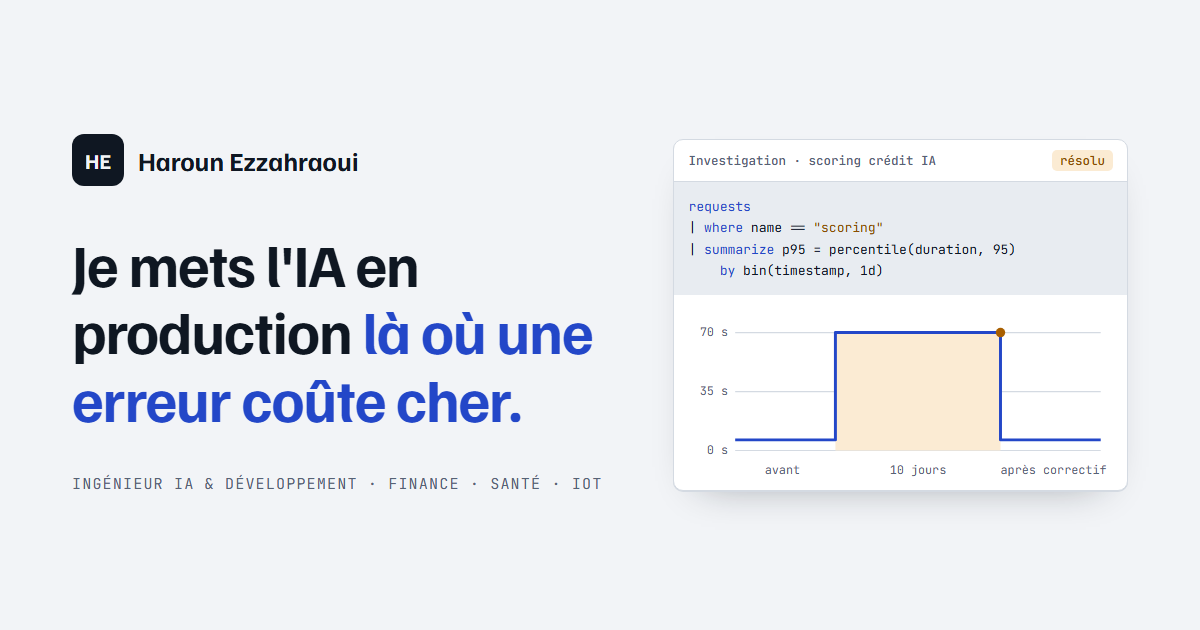
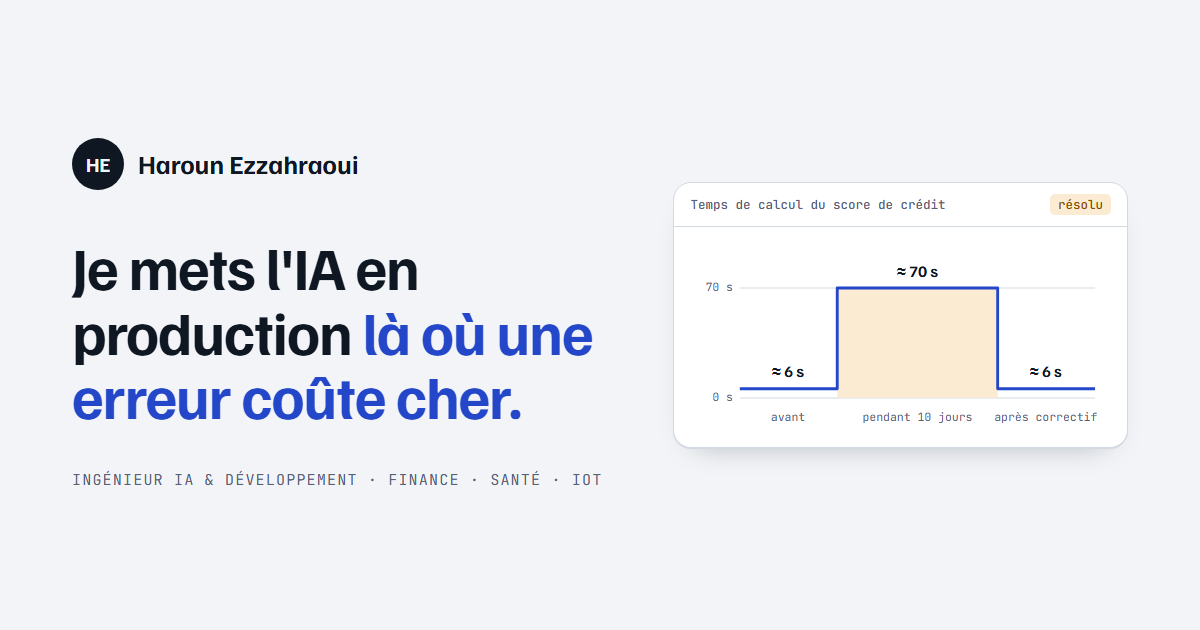
feat: replace the query card with a plain step chart
The KQL query and the p95 wording needed explaining. The card now shows only the scoring time before, during and after the incident, with the three values written on the chart. The social preview image is rebuilt to match.

diff --git a/src/data/ui.ts b/src/data/ui.ts
@@ -43,18 +43,13 @@ export const ui = {
     'match.none': 'Aucune compétence technique repérée. Essayez avec une fiche de poste plus détaillée.',
     'proof.eyebrow': 'Exemple concret',
     'proof.title': 'Un incident de production, expliqué simplement',
-    'inc.label': "Exemple d'investigation",
-    'inc.title': 'Investigation · scoring crédit IA',
+    'inc.title': 'Temps de calcul du score de crédit',
     'inc.sev': 'résolu',
+    'inc.chart':
+      'Temps de calcul du score : environ 6 secondes avant, environ 70 secondes pendant 10 jours, puis environ 6 secondes après le correctif',
     'inc.before': 'avant',
-    'inc.during': '10 jours',
+    'inc.during': 'pendant 10 jours',
     'inc.after': 'après correctif',
-    'inc.r1': 'avant : p95 ≈ 6 s',
-    'inc.r2': 'incident : p95 ≈ 70 s pendant 10 jours',
-    'inc.r3': 'après correctif : p95 ≈ 6 s',
-    'inc.query': 'Cette requête mesure le temps de réponse du scoring, jour par jour.',
-    'inc.p95': 'p95 : 95 % des demandes sont traitées en moins de ce temps.',
-    'inc.chart': 'p95 du scoring : environ 6 s, puis environ 70 s pendant 10 jours, puis retour à 6 s',
     'work.eyebrow': 'Études de cas',
     'work.title': 'Des systèmes IA réels, avec leurs résultats',
     'work.filter': 'Filtrer par domaine',
@@ -127,18 +122,13 @@ export const ui = {
     'match.none': 'No technical skill found. Try a more detailed job description.',
     'proof.eyebrow': 'A concrete example',
     'proof.title': 'A production incident, explained simply',
-    'inc.label': 'Investigation example',
-    'inc.title': 'Investigation · AI credit scoring',
+    'inc.title': 'Credit scoring time',
     'inc.sev': 'resolved',
+    'inc.chart':
+      'Scoring time: about 6 seconds before, about 70 seconds for 10 days, then about 6 seconds after the fix',
     'inc.before': 'before',
-    'inc.during': '10 days',
+    'inc.during': 'for 10 days',
     'inc.after': 'after fix',
-    'inc.r1': 'before: p95 ≈ 6 s',
-    'inc.r2': 'incident: p95 ≈ 70 s for 10 days',
-    'inc.r3': 'after fix: p95 ≈ 6 s',
-    'inc.query': 'This query measures the scoring response time, day by day.',
-    'inc.p95': 'p95: 95% of requests are handled in less than this time.',
-    'inc.chart': 'Scoring p95: about 6 s, then about 70 s for 10 days, then back to 6 s',
     'work.eyebrow': 'Case studies',
     'work.title': 'Real AI systems, with their results',
     'work.filter': 'Filter by domain',

diff --git a/src/styles/global.css b/src/styles/global.css
@@ -719,57 +719,24 @@ section.block {
   padding: 2px 8px;
   border-radius: 5px;
 }
-.incident pre {
+.incident {
   margin: 0;
-  padding: 16px;
-  font: 13px/1.65 var(--f-mono);
-  background: var(--sunk);
-  color: var(--ink);
-  overflow-x: auto;
-}
-.kw {
-  color: var(--accent);
-}
-.str {
-  color: var(--signal-ink);
 }
 .chart {
-  padding: 16px 16px 6px;
+  padding: 22px 20px 14px;
 }
 .chart svg {
   width: 100%;
   height: auto;
   display: block;
 }
-.zone {
-  fill: transparent;
-  cursor: crosshair;
-  transition: fill 0.15s;
+.chart .axis {
+  font: 10px var(--f-mono);
+  fill: var(--muted);
 }
-.zone:hover {
-  fill: color-mix(in srgb, var(--accent) 10%, transparent);
-}
-.readout {
-  display: flex;
-  flex-wrap: wrap;
-  gap: 6px;
-  padding-top: 10px;
-  font: 500 12px var(--f-mono);
-  color: var(--muted);
-}
-.readout span {
-  padding: 2px 8px;
-  border-radius: 5px;
-  background: var(--sunk);
-  transition:
-    background 0.15s,
-    color 0.15s;
-}
-.chart:has(.z1:hover) .r1,
-.chart:has(.z2:hover) .r2,
-.chart:has(.z3:hover) .r3 {
-  background: var(--accent);
-  color: var(--on-accent);
+.chart .val {
+  font: 700 14px var(--f-display);
+  fill: var(--ink);
 }
 @keyframes draw {
   from {
@@ -786,15 +753,6 @@ section.block {
     }
   }
 }
-.incident .cap {
-  padding: 10px 16px 0;
-  font-size: 14px;
-  color: var(--muted);
-}
-.incident .cap:last-child {
-  padding: 4px 16px 16px;
-}
-
 /* case studies */
 .spot {
   position: relative;

diff --git a/src/data/guide.ts b/src/data/guide.ts
@@ -30,8 +30,8 @@ export const GUIDE = {
     en: "I couldn't spot any technical skill. Try a more detailed job description.",
   },
   proof: {
-    fr: 'Un vrai incident de production : un seul appel externe bloqué 68 s, et toute la chaîne de scoring ralentit. Survolez le graphique.',
-    en: 'A real production incident: one external call hanging for 68 s, and the whole scoring chain slows down. Hover the chart.',
+    fr: 'Un vrai incident de production, raconté en quatre étapes : le symptôme, la recherche, la cause, le résultat.',
+    en: 'A real production incident, told in four steps: the symptom, the search, the cause, the outcome.',
   },
   work: {
     fr: 'Quatre études de cas détaillées. Filtrez par domaine, puis ouvrez celle qui ressemble à votre contexte.',
